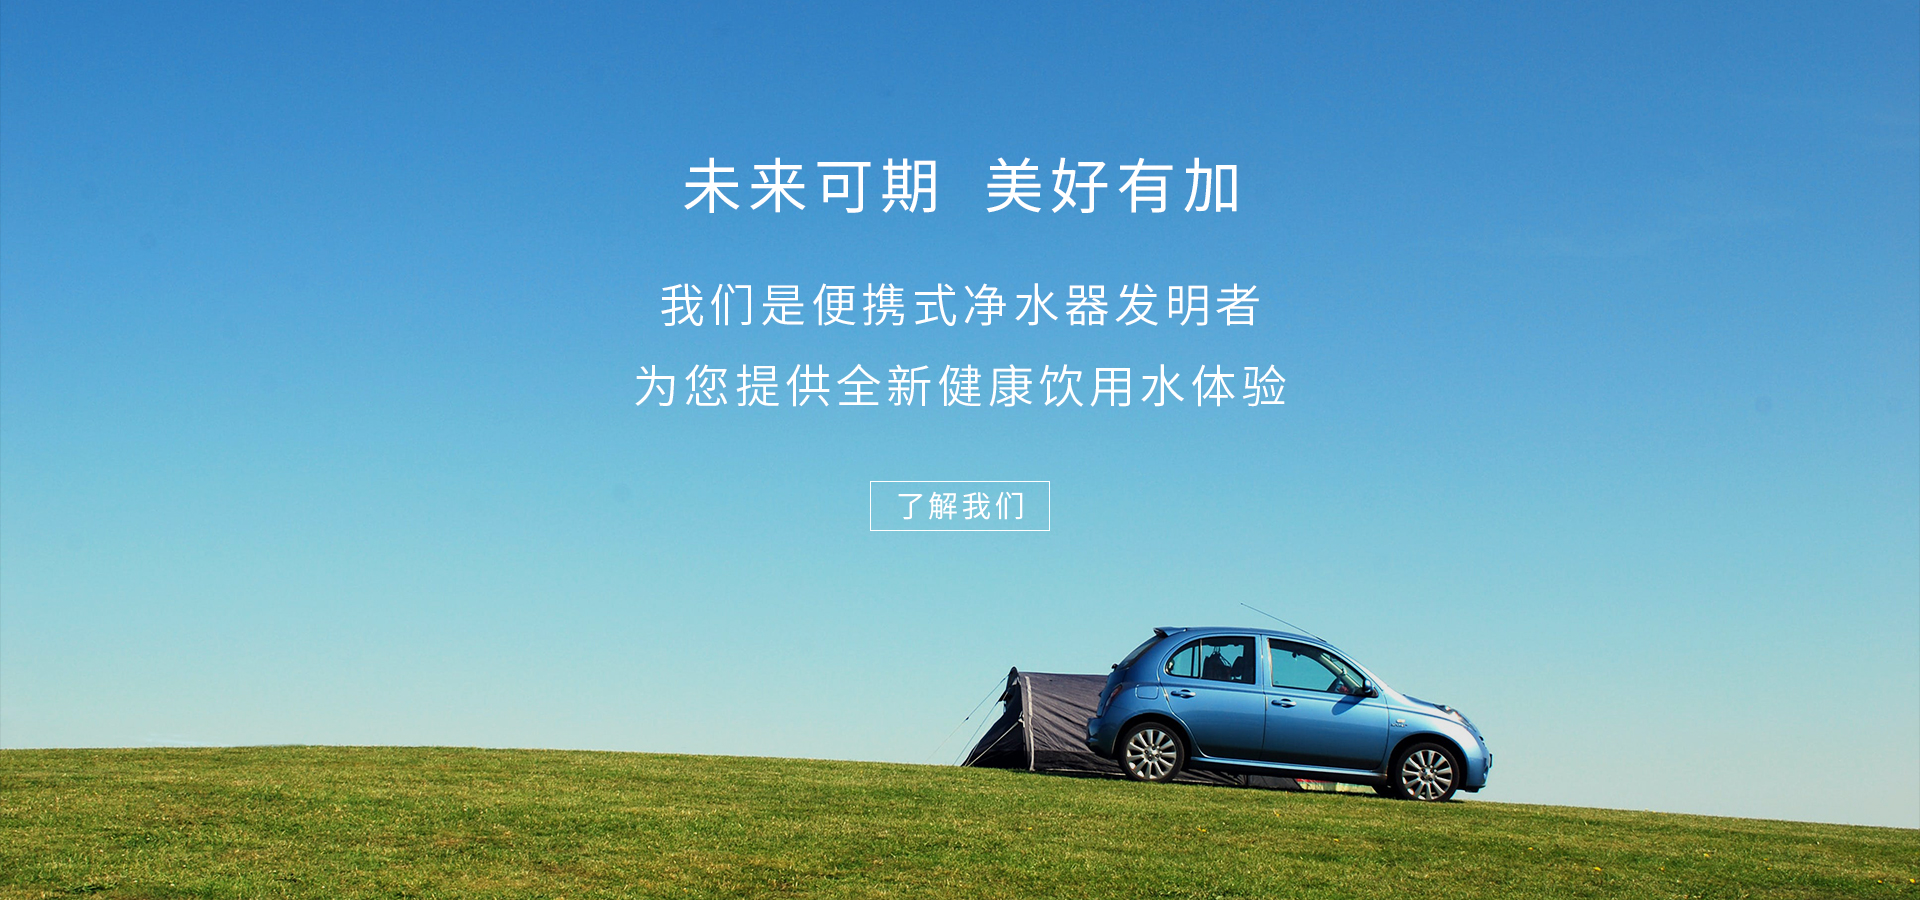
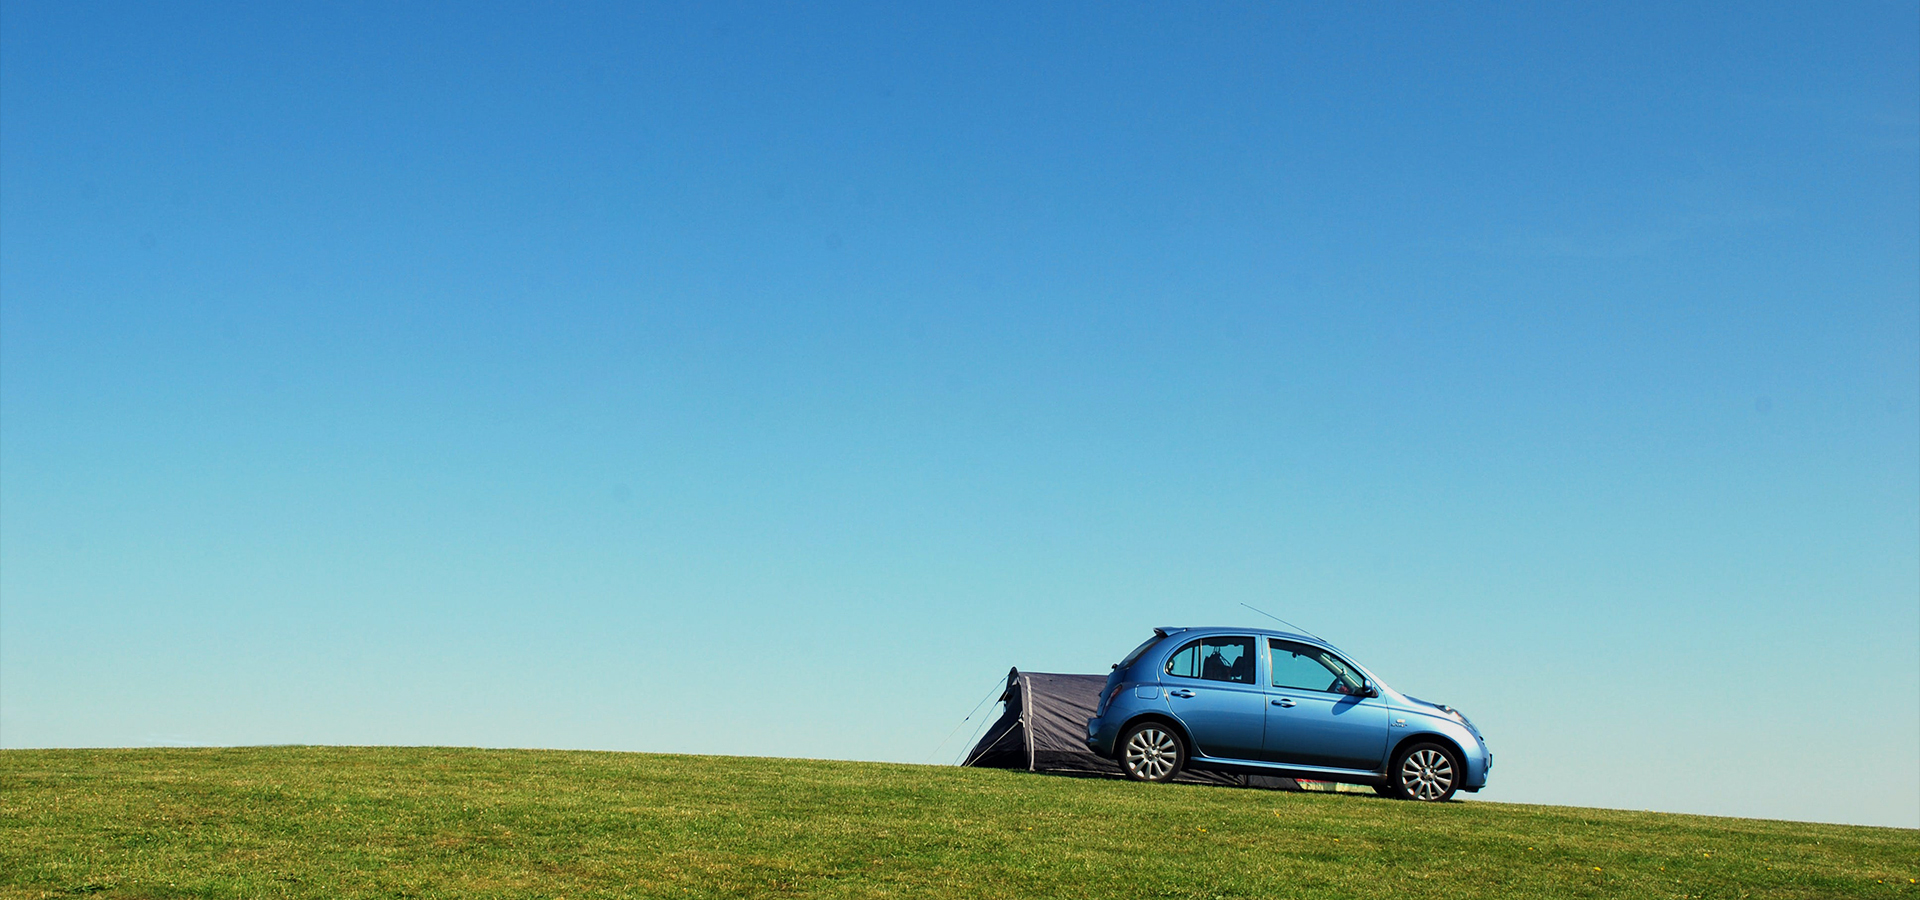
首页板块动画优化

diff --git a/index.html b/index.html
@@ -185,7 +185,7 @@
 
 <div class="basic-1">
     <div class="container">
-        <div class="row">
+        <div class="row" data-cues="zoomIn">
             <img style="width: 100%; height: 100%;" src="static/picture/gw_02.jpg">
         </div>
     </div>
@@ -269,9 +269,27 @@
 
 
 <div class="basic-1">
-    <div class="container">
-        <div class="row">
-            <img style="width: 100%; height: 100%;" src="static/picture/gw_03.jpg">
+    <div class="call-to-action-section">
+        <div class="container" >
+            <!--        <div class="row" style="background: url(static/picture/gw_03.jpg);background-repeat: no-repeat;background-position: center;background-size: cover;padding: 290px 90px;">-->
+            <!--            <img style="width: 100%; height: 100%;" src="static/picture/gw_03.jpg">-->
+            <!--        </div>-->
+            <div class="row call-bg align-items-center" style="margin-top: 30px;">
+                <div class="col-lg-12">
+                    <div class="call-action-content" data-cue="zoomIn">
+                        <div class="call-action-title">
+                            <h1>未来可期&nbsp; &nbsp;美好有加</h1>
+                        </div>
+                        <div class="call-action-des">
+                            <p>我们是便携式净水器发明者</p>
+                            <p>为您提供全新健康饮用水体验</p>
+                        </div>
+                        <div class="section-button">
+                            <a href="#">了 解 我 们</a>
+                        </div>
+                    </div>
+                </div>
+            </div>
         </div>
     </div>
 </div>
@@ -348,19 +366,6 @@
 </div> <!-- end of cards-1 -->
 <!-- end of services -->
 
-<!--<div class="cards-1">-->
-<!--    <div class="container">-->
-<!--        <div class="row">-->
-<!--            <img src="static/picture/05.jpg" style="width: 100%; height: 100%;"/>-->
-<!--        </div>-->
-<!--        <div class="row">-->
-<!--            <img src="static/picture/08.jpg" style="width: 100%; height: 100%;"/>-->
-<!--        </div>-->
-<!--        <div class="row">-->
-<!--            <img src="static/picture/07.jpg" style="width: 100%; height: 100%;"/>-->
-<!--        </div>-->
-<!--    </div>-->
-<!--</div>-->
 
 
 <!--<div>-->
@@ -391,16 +396,16 @@
 <!--        </div>-->
 <!--</div>-->
 
-<div class="row">
+<div class="row" data-cues="fadeIn">
     <img src="static/picture/gw_06.jpg" style="width: 100%; height: 100%;"/>
 </div>
 
 <div>
-    <li class="swiper-slide swiper-slide-banner"><img src="static/picture/gw_07.jpg" style="width: 100%; height: 100%;>
-                     
-                    </li></div>
-    <div class=" footer">
+    <div class="row" data-cues="zoomIn">
+        <img src="static/picture/gw_07.jpg" style="width: 100%; height: 100%;"/>
+    </div>
 
+    <div class=" footer">
         <div class="copyright">
             <div class="container">
                 <p>Copyright 2024&nbsp; 美好有加智能科技有限公司&nbsp; 版权所有 &nbsp;</p>
@@ -415,6 +420,7 @@
                 </div>
             </div>
         </div>
+    </div>
 </div>
 
 <!-- 应用插件标签 start -->

diff --git a/static/css/styles.css b/static/css/styles.css
@@ -148,7 +148,7 @@ html {
 /*     Details 1     */
 /*********************/
 .basic-1 {
-    padding-top: 9.5rem;
+    padding-top: 7rem;
     padding-bottom: 10rem;
 }
 
@@ -166,6 +166,86 @@ html {
 
 .basic-1 .btn-solid-reg {
     cursor: pointer;
+}
+
+.call-to-action-section {
+    background: url(../picture/gw_03.jpg);
+    background-repeat: no-repeat;
+    background-position: center;
+    background-size: cover;
+    padding: 120px 0 320px;
+    color: white;
+}
+.call-action-content {
+    margin-top: 3.4rem;
+    text-align: center;
+}
+.call-action-title h1 {
+    font-size: 46px;
+    font-weight: 400;
+    text-align: center;
+}
+.call-action-des{
+    padding-top: 2rem;
+}
+.call-action-des p {
+    font-size: 36px;
+    font-weight: 300;
+    width: 38%;
+    margin: 2rem auto;
+    line-height: 1.5;
+}
+
+.section-button {
+    height: 45px;
+    margin-top: 23px;
+    display: inline-block;
+    border: 1px solid white;
+}
+
+.section-button a {
+    font-size: 16px;
+    color: #ffffff;
+    font-weight: 300;
+    display: inline-block;
+    background-color: rgb(0, 0, 0, 0);
+    padding: 13px 36px;
+    position: relative;
+    z-index: 1;
+    overflow: hidden;
+    transition: 0.5s;
+}
+
+.section-button a::after {
+    position: absolute;
+    top: 0;
+    left: -5%;
+    right: auto;
+    bottom: auto;
+    width: 110%;
+    height: 200%;
+    background:#fff;
+    -webkit-transform-origin: left bottom;
+    transform-origin: left bottom;
+    -webkit-transform: skewY(-10deg) scale(1, 0);
+    transform: skewY(-10deg) scale(1, 0);
+    -webkit-transition: -webkit-transform 0.5s;
+    transition: -webkit-transform 0.5s;
+    transition: transform 0.5s;
+    transition: transform 0.5s, -webkit-transform 0.5s;
+    content: "";
+    z-index: -1;
+}
+
+.section-button a:hover:after{
+    -webkit-transform-origin: left top;
+    transform-origin: left top;
+    -webkit-transform: skewY(-10deg) scale(1, 1);
+    transform: skewY(-10deg) scale(1, 1);
+}
+
+.section-button:hover a{
+    color: black;
 }
 
 /* Features */
@@ -192,7 +272,7 @@ html {
 
 /* Details 2 */
 .basic-2 {
-    padding-top: 9.5rem;
+    padding-top: 7.5rem;
     padding-bottom: 10rem;
 }
 
